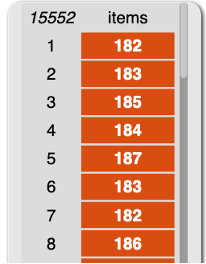
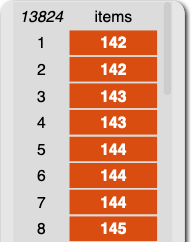
Pixel updates

diff --git a/middle-school/student-pages/U1/L4/02-pixel-manipulator.html b/middle-school/student-pages/U1/L4/02-pixel-manipulator.html
@@ -61,31 +61,30 @@
 		<p>Now that you've seen the pixels with your own human eyes, let's see how the computer stores the pixels.</p>
 		<div class="forYouToDo">
 			<ol start="8">
-				<li>Click the <code>my costume</code> block. It's a simple block that reports back the current costume. That block will be used a lot in this program.</li>
-				<div class="comment">Pamela, you had a comment to be about transparency vs. opacity. Could we just leave out that column?? --MF, 8/14/21</div>
-				<li>
-					Click the <code>pixels of costume</code> block. The comment above the block describes what it reports, a very long table of pixel values, with red in the first column, green in the second column, blue in the third column, and opacity in the fourth column.<br />
-					<img class="indent" src="/bjc-r/middle-school/img/U1/image-manipulation-table.png" alt="table with 4 columns and 8 rows showing, though there is a row count of 15,552 in the upper left corner (not all rows are visible). The first column includes values ranging from 182-187; the second column includes values ranging from 173-180; the third column includes values ranging from 164-171; and the fourth column has the same value of 255 in each row." title="table with 4 columns and 8 rows showing, though there is a row count of 15,552 in the upper left corner (not all rows are visible). The first column includes values ranging from 182-187; the second column includes values ranging from 173-180; the third column includes values ranging from 164-171; and the fourth column has the same value of 255 in each row." />
+				<li>Click the <code>pixels of costume</code> block. The comment above the block describes what it reports, a very long table of pixel values, with red in the first column, green in the second column, and blue in the third column.<br />
+				<img class="indent" src="/bjc-r/middle-school/img/U1/image-manipulation-table.png" alt="table with 4 columns and 8 rows showing, though there is a row count of 13,824 in the upper left corner (not all rows are visible). The first column includes values ranging from 142-1145; the second column includes values ranging from 165-168; the third column includes values ranging from 197-200." title="table with 4 columns and 8 rows showing, though there is a row count of 15,552 in the upper left corner (not all rows are visible). The first column includes values ranging from 182-187; the second column includes values ranging from 173-180; the third column includes values ranging from 164-171; and the fourth column has the same value of 255 in each row." />
 				</li>
+				<li>Click the expression that starts with <code>item 1</code>:<br>
+					<img class="indent" src="/bjc-r/middle-school/img/U1/item1-of-pixels.png" alt="item 1 of (pixels of costume 'current')" title="item 1 of (pixels of costume 'current')" />
+				    <br>
+                                    That block reports the very first pixel from the costume, the pixel in the top left corner.
+                                </li>
+                                <li>Click the expression that starts with <code>color red from pixel</code>:<br>
+                                        <img class="indent" src="/bjc-r/middle-school/img/U1/color-red-from-pixel.png" alt="color 'red' from pixel (item 1 of (pixels of costume 'current')" title="color 'red' from pixel (item 1 of (pixels of costume 'current')" />
+				    <br>
+                                    That block reports just the red channel from that very first pixel. This project uses the <code>color</code> block frequently, to pull out different channels and manipulate them.
 				<li>
 					Click the expression that looks like this:<br />
 					<img class="indent" src="/bjc-r/middle-school/img/U1/image-manipulation-map-expression.png" alt="map (color ('red') from pixel 'list input slot') over (('pixels') of costume (my ('costume'))))" title="map (color ('red') from pixel 'list input slot') over (('pixels') of costume (my ('costume'))))" />
-				</li>
-			</ol>
-		</div>
-		<p>
-			That block turns the pixels table into a single list of just the red values. Put another way, it keeps just the first column from that table:<br />
-			<div class="todo">
-				<p>Is <em>keep</em> a risky word to use here? --MF, 8/14/21</p>
-				<p>I wonder if it would be a better preview of <code>map</code> to understand what <code>color from pixel</code> does first... --MF, 8/14/21</p>
-			</div>
+                                       <br>
+			That block turns the pixels table into a single list of just the red values. Put another way, it duplicates just the first column from that table:<br />
 			<div style="white-space: nowrap;">
-				<img class="indent" src="/bjc-r/middle-school/img/U1/image-manipulation-table.png" alt="table with 4 columns and 8 rows showing, though there is a row count of 15,552 in the upper left corner (not all rows are visible). The first column includes values ranging from 182-187; the second column includes values ranging from 173-180; the third column includes values ranging from 164-171; and the fourth column has the same value of 255 in each row." title="table with 4 columns and 8 rows showing, though there is a row count of 15,552 in the upper left corner (not all rows are visible). The first column includes values ranging from 182-187; the second column includes values ranging from 173-180; the third column includes values ranging from 164-171; and the fourth column has the same value of 255 in each row." />
+				<img class="indent" src="/bjc-r/middle-school/img/U1/image-manipulation-table.png" alt="table with 3 columns and 8 rows showing, though there is a row count of 15,552 in the upper left corner (not all rows are visible). The first column includes values ranging from 182-187; the second column includes values ranging from 173-180; the third column includes values ranging from 164-171; and the fourth column has the same value of 255 in each row." title="table with 3 columns and 8 rows showing, though there is a row count of 15,552 in the upper left corner (not all rows are visible). The first column includes values ranging from 182-187; the second column includes values ranging from 173-180; the third column includes values ranging from 164-171; and the fourth column has the same value of 255 in each row." />
 				<img class="" src="/bjc-r/middle-school/img/U1/arrow-left-to-right.png" height="70px;" alt="→" title="→" />
 				<img class="" src="/bjc-r/middle-school/img/U1/image-manipulation-table-single-column.png" alt="list with 8 items showing, though there is an item count of 15,552 in the upper left corner (not all items are visible). The values of the list items range from 182-187." title="list with 8 items showing, though there is an item count of 15,552 in the upper left corner (not all items are visible). The values of the list items range from 182-187." />
-			</div>
-		</p>
-		
+				</li>
+			</ol>
+                </div>
 		
 		<h3>Playing with Filters</h3>
 		<p>You have everything needed to manipulate the image. The magic begins!</p>
